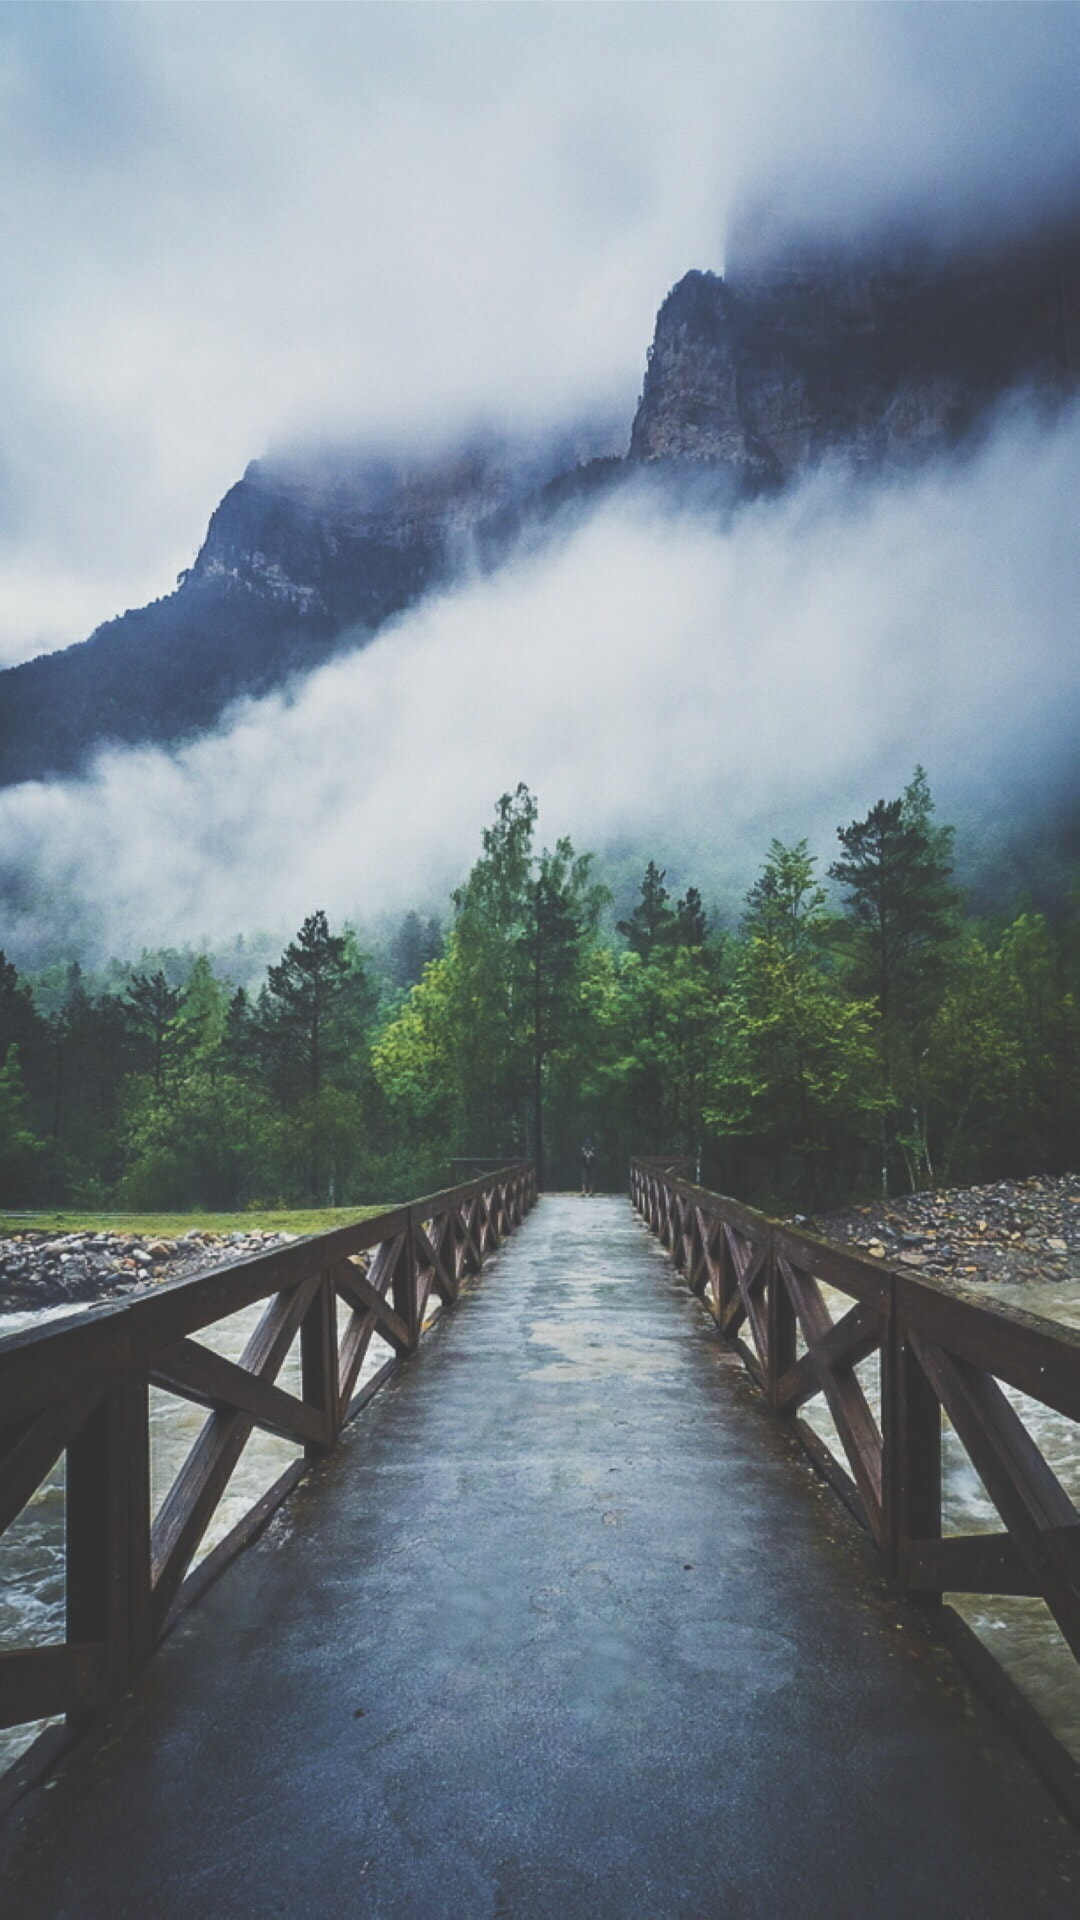
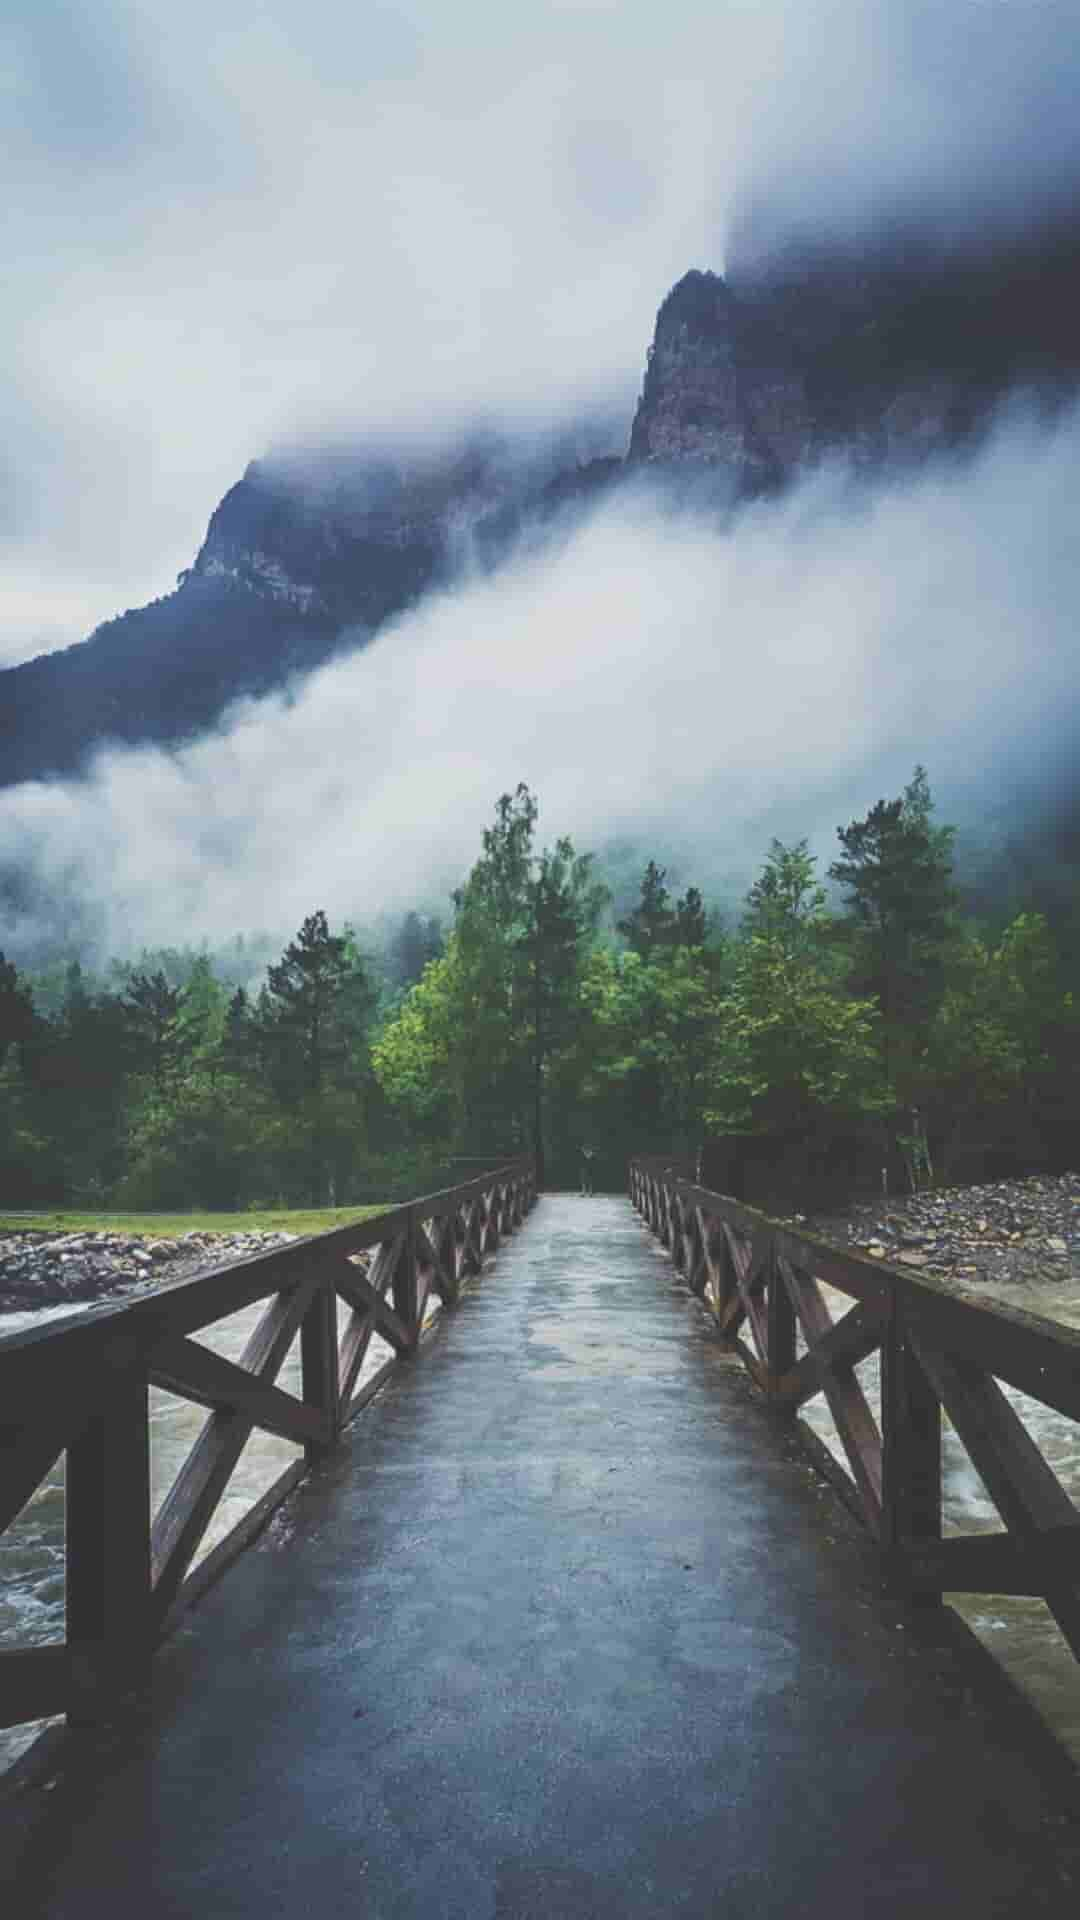
compress image & create stack navigator for smoother transition

Changed region(s): [[0.8556, 0.625, 0.8861, 0.6562]]

diff --git a/components/Authentication/Login.js b/components/Authentication/Login.js
@@ -14,6 +14,9 @@ const DEVICE_HEIGHT = Dimensions.get('window').height;
 
 
 class LoginForm extends Component {
+   static navigationOptions = {
+      header: null,
+   }
    constructor(props) {
       super(props);
       this.state = {
@@ -26,6 +29,17 @@ class LoginForm extends Component {
    componentWillMount() {
       this.keyboardWillShowSub = Keyboard.addListener('keyboardWillShow', this.keyboardWillShow);
       this.keyboardWillHideSub = Keyboard.addListener('keyboardWillHide', this.keyboardWillHide);
+      // render image
+      this.image = <Image 
+                     source={require('../../images/background.jpg')} 
+                     style={{ 
+                        width: DEVICE_WIDTH, 
+                        height: DEVICE_HEIGHT,
+                        position: 'absolute',
+                        zIndex: 0,
+                        alignSelf: 'stretch',
+                        opacity: 0.8 }}
+                  />
    }
 
    componentWillUnmount() {
@@ -70,16 +84,7 @@ class LoginForm extends Component {
       this.state.email === '' || this.state.password === '' ? disableStatus = true : disableStatus = false;
       return(
          <View style={{ flex: 1, justifyContent: 'center' }}>
-            <Image 
-               source={require('../../images/background.jpg')} 
-               style={{ 
-                  width: DEVICE_WIDTH, 
-                  height: DEVICE_HEIGHT,
-                  position: 'absolute',
-                  zIndex: 0,
-                  alignSelf: 'stretch',
-                  opacity: 0.8 }}
-            />
+            {this.image}
             <Animated.View style={[styles.container, { marginBottom: this.keyboardHeight } ]}>
             <ViewContainer>
                   <Text style={styles.title}>Sign into Gigle</Text>
@@ -134,7 +139,7 @@ class LoginForm extends Component {
                   ------------or-----------
                   </Text>
                   <Text
-                     onPress={() => this.props.navigation.navigate('signup')}
+                     onPress={() => this.props.navigation.navigate('Signup')}
                      style={styles.signup}
                      >Create an account</Text>
             </ViewContainer>

diff --git a/components/Authentication/Signup.js b/components/Authentication/Signup.js
@@ -13,6 +13,9 @@ const DEVICE_WIDTH = Dimensions.get('window').width;
 const DEVICE_HEIGHT = Dimensions.get('window').height;
 
 class SignupForm extends Component {
+   static navigationOptions = {
+      header: null,
+   }
    constructor(props) {
       super(props);
       this.state = {
@@ -25,6 +28,16 @@ class SignupForm extends Component {
    componentWillMount() {
       this.keyboardWillShowSub = Keyboard.addListener('keyboardWillShow', this.keyboardWillShow);
       this.keyboardWillHideSub = Keyboard.addListener('keyboardWillHide', this.keyboardWillHide);
+      this.image = <Image 
+                     source={require('../../images/background.jpg')} 
+                     style={{ 
+                        width: DEVICE_WIDTH, 
+                        height: DEVICE_HEIGHT,
+                        position: 'absolute',
+                        zIndex: 0,
+                        alignSelf: 'stretch',
+                        opacity: 0.8 }}
+                  />
    }
 
    componentWillUnmount() {
@@ -68,16 +81,7 @@ class SignupForm extends Component {
       this.state.email === '' || this.state.password === '' ? disableStatus = true : disableStatus = false;
       return(
          <View style={{ flex: 1, justifyContent: 'center' }}>
-            <Image 
-               source={require('../../images/background.jpg')} 
-               style={{ 
-                  width: DEVICE_WIDTH, 
-                  height: DEVICE_HEIGHT,
-                  position: 'absolute',
-                  zIndex: 0,
-                  alignSelf: 'stretch',
-                  opacity: 0.8 }}
-            />
+            {this.image}
             <Animated.View style={[styles.container, { marginBottom: this.keyboardHeight } ]}>
             <ViewContainer>
                <Text style={styles.title}>Sign Up</Text>

diff --git a/App.js b/App.js
@@ -33,9 +33,11 @@ export default class App extends React.Component {
 
   render() {
     const MainNavigator = createBottomTabNavigator({
-      Loading: Loading,
-      Login: LoginForm,
-      Signup: SignupForm,
+      Loading: Loading,      
+      authentication: createStackNavigator({
+        Login: LoginForm,
+        Signup: SignupForm,
+      },{ initialRouteName: 'Login'}),      
       setting: createStackNavigator({
         Account: Account,
         Profile: Profile,

diff --git a/components/Info/Profile.js b/components/Info/Profile.js
@@ -93,7 +93,7 @@ class Profile extends Component {
                ?
                <Spinner />
                :
-               <ScrollView style={{ flex: 1 }}>
+               <ScrollView style={{ flex: 1, backgroundColor: 'white' }}>
                   <ViewContainer>
                      <View style={[styles.headingContainer, { marginTop: 15 }]}>
                         <Icon name="info-circle" size={25} />               

diff --git a/components/Loading.js b/components/Loading.js
@@ -10,7 +10,7 @@ class Loading extends Component {
       firebase.auth().onAuthStateChanged((user) => {
          if (user) {
             this.setState({ isLogin: true });
-            this.props.navigation.navigate('Profile');
+            this.props.navigation.navigate('Login');
          } else {
             this.setState({
                isLogin: false,

diff --git a/components/Authentication/Account.js b/components/Authentication/Account.js
@@ -26,7 +26,7 @@ export default class Account extends Component {
          email = firebase.auth().currentUser.email;
       }
       return (
-         <View style={{flex:1}}>
+         <View style={{flex:1, backgroundColor: 'white'}}>
             
             <View style={styles.header}>
                 <Image 
